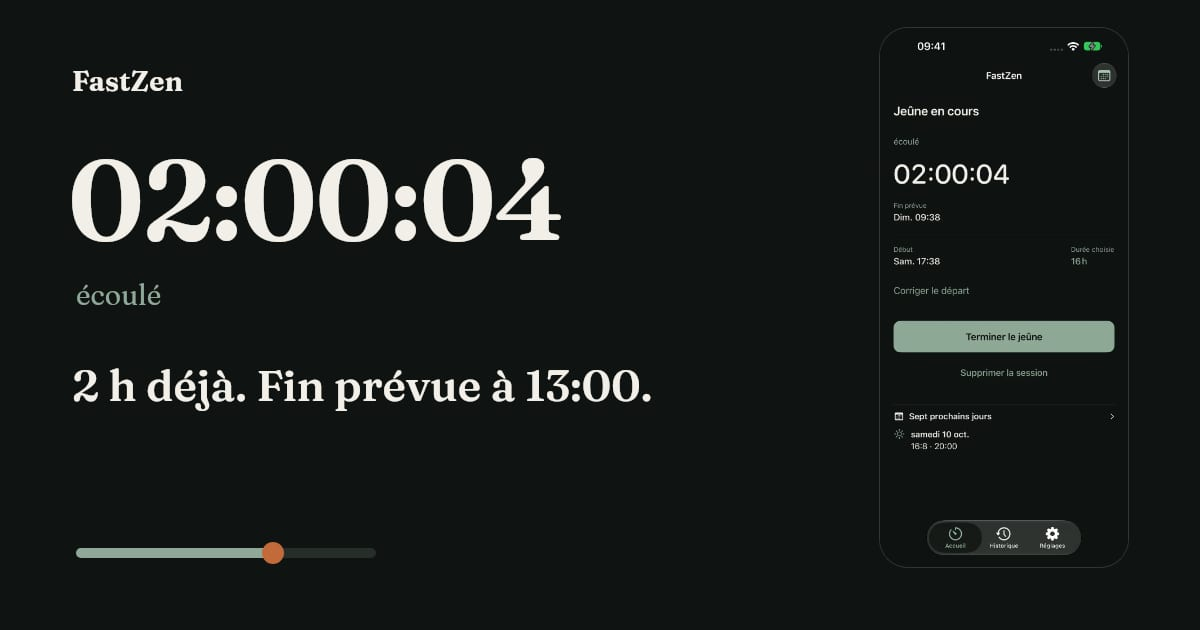
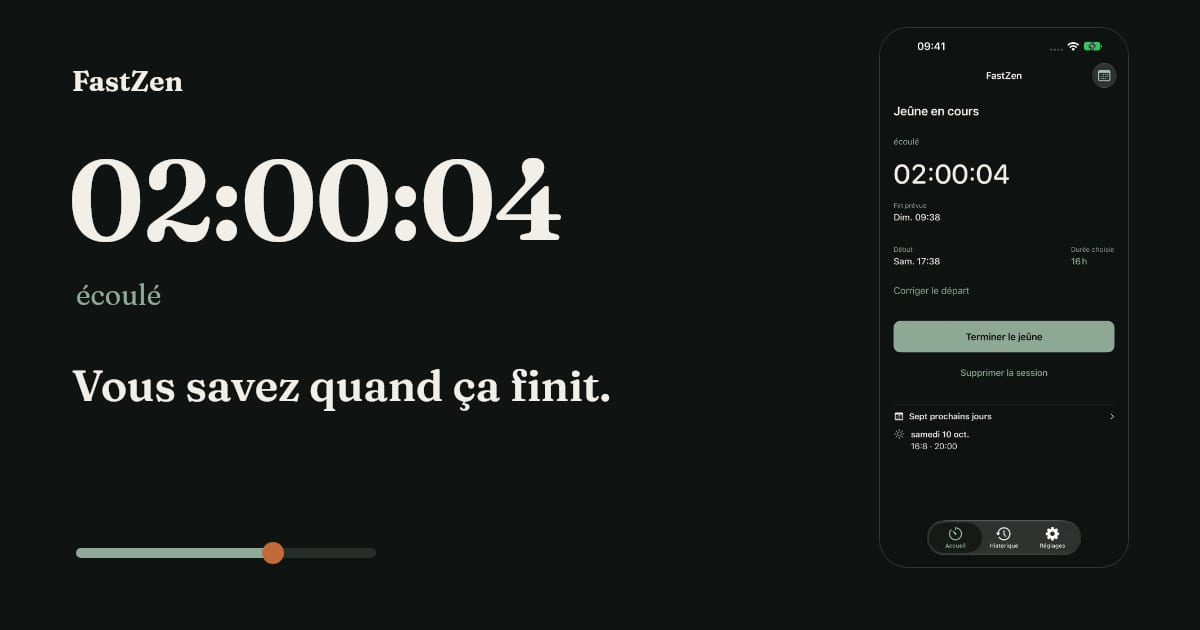
FastZen: cadran lisible comme l’accueil, titre et premier écran
Le début est en haut, l’arc clair est le temps écoulé, l’arc sauge ce qui reste, et l’heure de fin est sur le cercle. Le titre dit ce que l’app change, la navigation tient en un ou deux mots, et la capture d’accueil est à côté du cadran dès 900 px.

Changed region(s): [[0.0617, 0.573, 0.555, 0.6635]]

diff --git a/apps/fastzen/site/dial.css b/apps/fastzen/site/dial.css
@@ -106,27 +106,40 @@ button, input, select, textarea { font: inherit; color: inherit; }
   padding: 28px var(--side) 56px;
   text-align: center;
 }
-.fz-dial { width: min(78vw, 340px); margin: 0 auto 8px; }
+.fz-pitch { min-width: 0; }
+.fz-beside { display: none; }
+.fz-dial { width: min(100%, 420px); margin: 0 auto 8px; }
 .fz-face { position: relative; container-type: inline-size; }
-.fz-ring { width: 100%; height: auto; display: block; }
-.fz-track { fill: none; stroke: var(--bamboo); stroke-width: 12; }
-.fz-tick { stroke: var(--sage); stroke-width: 1.25; }
-.fz-major { stroke: var(--mochi); stroke-width: 2; }
-.fz-fast, .fz-done { fill: none; stroke-linecap: round; }
-.fz-fast {
+.fz-ring { width: 100%; height: auto; display: block; overflow: visible; }
+.fz-track { fill: none; stroke: var(--bamboo); stroke-width: 7; }
+.fz-tick { stroke: var(--sage); stroke-width: 1.2; }
+.fz-major { stroke: var(--mochi); stroke-width: 1.8; }
+.fz-left, .fz-done { fill: none; }
+.fz-left {
   stroke: var(--sage);
-  stroke-width: 12;
-  stroke-dasharray: var(--hours) 24;
+  stroke-width: 11;
+  stroke-linecap: butt;
 }
 .fz-done {
-  stroke: var(--copper);
-  stroke-width: 12;
+  stroke: var(--mochi);
+  stroke-width: 16;
+  stroke-linecap: round;
   stroke-dasharray: var(--elapsed) 24;
 }
-.fz-mark { fill: var(--copper); stroke: var(--tea); stroke-width: 2; }
+.fz-mark { fill: var(--sage); stroke: var(--tea); stroke-width: 2; }
+.fz-hour, .fz-endlab {
+  fill: var(--sage);
+  font-size: 8px;
+  font-weight: 650;
+  font-family: var(--face);
+  text-anchor: middle;
+  dominant-baseline: central;
+}
+.fz-start, .fz-endlab { fill: var(--mochi); }
+.fz-endlab { font-size: 9px; }
 .fz-core {
   position: absolute;
-  inset: 24%;
+  inset: 32%;
   display: flex;
   flex-direction: column;
   align-items: center;
@@ -143,7 +156,7 @@ button, input, select, textarea { font: inherit; color: inherit; }
 }
 .fz-word { color: var(--sage); font-size: min(0.95rem, 4.2cqi); }
 .fz-end {
-  color: var(--copper);
+  color: var(--mochi);
   font-weight: 650;
   font-size: min(1.05rem, 4.6cqi);
   line-height: 1.25;
@@ -271,8 +284,26 @@ button, input, select, textarea { font: inherit; color: inherit; }
 }
 
 @media (min-width: 900px) {
-  .fz-dial { width: 440px; }
-  .fz-open { padding-top: 48px; }
+  .fz-open {
+    display: grid;
+    grid-template-columns: minmax(280px, 420px) minmax(16rem, 1fr) minmax(168px, 230px);
+    align-items: center;
+    gap: 8px 32px;
+    text-align: start;
+    padding-top: 28px;
+  }
+  .fz-dial { width: 100%; margin: 0; }
+  .fz-pitch .fz-h1,
+  .fz-pitch .fz-intro,
+  .fz-pitch .fz-fine,
+  .fz-pitch .fz-lead { margin-left: 0; margin-right: 0; }
+  .fz-open .fz-badges,
+  .fz-open .fz-proto { justify-content: flex-start; }
+  .fz-open .fz-range,
+  .fz-open .fz-win { margin-left: 0; margin-right: 0; }
+  .fz-beside { display: block; margin: 0; }
+  .fz-beside img { width: min(100%, calc((100vh - 160px) * 0.46)); height: auto; }
+  .fz-repeat { display: none; }
   .fz-split {
     display: grid;
     grid-template-columns: minmax(0, 1fr) minmax(280px, 420px);
@@ -287,9 +318,9 @@ button, input, select, textarea { font: inherit; color: inherit; }
 }
 
 @media (prefers-reduced-motion: no-preference) {
-  .fz-fast { animation: fz-draw 1.05s cubic-bezier(.2, .7, .2, 1); }
+  .fz-done { animation: fz-draw 0.9s cubic-bezier(.2, .7, .2, 1); }
 }
 @keyframes fz-draw {
-  from { stroke-dashoffset: var(--hours); }
+  from { stroke-dashoffset: var(--elapsed); }
   to { stroke-dashoffset: 0; }
 }

diff --git a/apps/fastzen/site/DESIGN.md b/apps/fastzen/site/DESIGN.md
@@ -21,7 +21,7 @@ La fin prévue comme une réservation, papier clair et filet cuivre. L’heure o
 
 ### Option C : « Le cadran du jeûne » (retenue)
 
-Un cadran de 24 heures. L’arc sauge est le jeûne, le point cuivre est la fin prévue, le temps écoulé est au centre. Le visiteur passe de 16:8 à 18:6, 20:4, OMAD ou une durée de 1 à 48 h, et l’arc suit. Ensuite les vrais écrans : le jeûne en cours, la semaine avec ses repos, une seule date, l’historique, l’achat unique.
+Un cadran de 24 heures, comme l’accueil de l’app : le début (21:00) est en haut, le sens est celui des aiguilles. L’arc clair est le temps écoulé, l’arc sauge est ce qui reste du jeûne, le bambou est la fenêtre où l’on mange, le point sauge porte l’heure de fin. Les repères 00:00, 03:00, 06:00… tournent avec le début. Ensuite les vrais écrans.
 
 ## Pourquoi « Le cadran du jeûne »
 
@@ -35,7 +35,9 @@ TempoReps n’aboutirait pas à un cadran de jeûne avec des jours de repos. Nom
 
 ## Règles de la page
 
-- Ordre : cadran, titre, badges, choix du protocole ; puis le jeûne en cours (capture accueil) ; la semaine (liste des jours de la capture, puis l’écran) ; une seule date ; l’historique et la phrase de suivi ; l’achat unique ; les deux autres apps déjà liées ; l’assistance.
+- Ordre : cadran, titre, badges, choix du protocole. À partir de 900 px, la capture d’accueil est dans le premier écran, à côté du cadran. Puis la semaine, une seule date, l’historique, l’achat unique, les deux autres apps, l’assistance.
+- Le cadran se lit sans légende. Pas de phrase qui décrit la page (« le cadran reprend l’écran »).
+- Navigation desktop : un ou deux mots (Jeûne, Semaine, Sur mesure, Assistance).
 - Police unique, Fraunces (OFL, The Fraunces Project), variable et sous-ensemblée latin, 36 Ko, graisses 400 à 700. Japonais : les glyphes absents passent à une mincho système. Aucune police des autres sites.
 - Couleurs de l’app en thème sombre, celui des captures : Tea Black #0F1311, Bamboo #262E29, Sage Mist #8FA897, Copper #C26A3A, Mochi #F2EFE8. Le texte secondaire est Sage Mist (7,3:1 sur Tea Black). Le cuivre sur Tea Black est à 4,8:1. Le texte des boutons cuivre est Tea Black.
 - Une seule colonne par défaut. La navigation textuelle et les grilles à deux colonnes vivent dans des media queries `min-width` (860 px et 900 px).
@@ -60,8 +62,8 @@ Envie :
 - [x] Le prix affiché n’apparaît qu’en français (6,99 €) et en anglais (5,99 $, et 6,49 $ sur Google Play US).
 
 Technique :
-- [x] WebKit (Playwright, iPhone) à 375, 390 et 430 px, zoom 120 % et texte 120 %, sur les 8 langues : `scrollWidth` égal à la largeur, aucun élément hors champ hors le champ honeypot. Capture d’accueil à 89 % de la largeur, 73 % avec le zoom 120 %. Le menu de langue ouvert (ja, 375 px) ne déborde pas.
-- [x] Desktop 1440×900 : navigation en ligne, section « jeûne en cours » en deux colonnes (604 px et 420 px).
-- [x] Clic 18:6 : fin prévue 15:00, arc 18. Curseur à 30 h : fin prévue 03:00, « plus d’un tour de cadran ». `prefers-reduced-motion` : pas d’animation.
-- [x] Lighthouse mobile local sur `/FastZen/fr-FR/` : performance 100, accessibilité 100, bonnes pratiques 100, SEO 100, LCP 1,8 s, CLS 0.
+- [x] WebKit (Playwright, iPhone) à 375, 390 et 430 px, zoom 120 % et texte 120 %, sur les 8 langues : pas de débordement hors le champ honeypot. Capture d’accueil à 73 % de la largeur avec le zoom.
+- [x] Desktop 1440×900 : navigation en un ou deux mots, cadran et capture d’accueil dans le premier écran (la capture va de y 217 à y 716).
+- [x] Clic 18:6 : fin prévue 15:00, arc restant 16 h, repère 15:00. `prefers-reduced-motion` : pas d’animation.
+- [x] Lighthouse mobile local sur `/FastZen/fr-FR/` après le recadrage : performance 100, accessibilité 100, bonnes pratiques 100, SEO 100, LCP 1,8 s, CLS 0.
 - [x] Confidentialité et assistance à un clic. Pas de page de mentions légales. Formulaire `/api/contact`, honeypot, Turnstile `0x4AAAAAAFb8sZbCULV4skmB`, `assets/site.js` inchangé.
